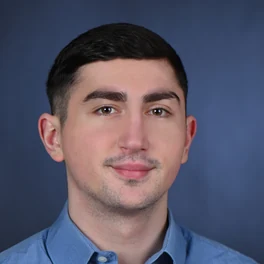
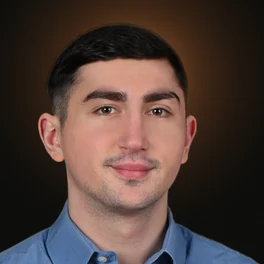
Intro: Punkt zieht die Buchstaben hinter sich her; Portraet freigestellt im Abendlicht

diff --git a/index.html b/index.html
@@ -687,7 +687,7 @@ body { overflow-x: clip; }
     .from('.parallax__rolle', { opacity: 0, y: 8, duration: 0.7 }, 0.35)
     .from('.nav, .parallax__hint', { opacity: 0, duration: 0.6, ease: 'power2.out' }, 0.5);
 
-  /* ===== Auftritt: "E." erscheint, entfaltet sich zu "ERGUN.", dann blendet die Szene auf ===== */
+  /* ===== Auftritt: "E." erscheint, der Punkt zieht nach rechts und zieht "RGUN" hinter sich her, dann blendet die Szene auf ===== */
   var loader = document.querySelector('.loader');
   var titel = document.querySelector('.parallax__title');
   if (!loader || !document.documentElement.classList.contains('intro')) {
@@ -741,9 +741,22 @@ body { overflow-x: clip; }
     function weiter() {
       if (gestartet || !eFertig || !geladen) return;
       gestartet = true;
+      /* Der Punkt zieht nach rechts, jeder Buchstabe steigt erst auf, wenn der Punkt an ihm vorbei ist */
+      var masken = [].slice.call(name.querySelectorAll('.loader__maske'), 1);
+      var marken = masken.map(function (m) { return m.offsetLeft + m.offsetWidth * 0.55; });
+      var naechster = 0;
+      function aufdecken(bisX) {
+        while (naechster < marken.length && bisX >= marken[naechster]) {
+          gsap.to(rest[naechster], { yPercent: 0, duration: 0.55, ease: 'expo.out' });
+          naechster++;
+        }
+      }
       gsap.timeline({ onComplete: uebergabe })
-        .to([name, punkt], { x: 0, duration: 0.7, ease: 'power3.inOut' }, 0)
-        .to(rest, { yPercent: 0, duration: 0.7, ease: 'expo.out', stagger: 0.04 }, 0.1);
+        .to(name, { x: 0, duration: 1.1, ease: 'power2.inOut' }, 0)
+        .to(punkt, { x: 0, duration: 1.1, ease: 'power2.inOut',
+          onUpdate: function () { aufdecken(punkt.offsetLeft + gsap.getProperty(punkt, 'x')); },
+          onComplete: function () { aufdecken(Infinity); } }, 0)
+        .to({}, { duration: 0.45 });
     }
     function uebergabe() {
       /* Name gleitet exakt auf den Hero-Titel, der dunkle Grund blendet aus */
